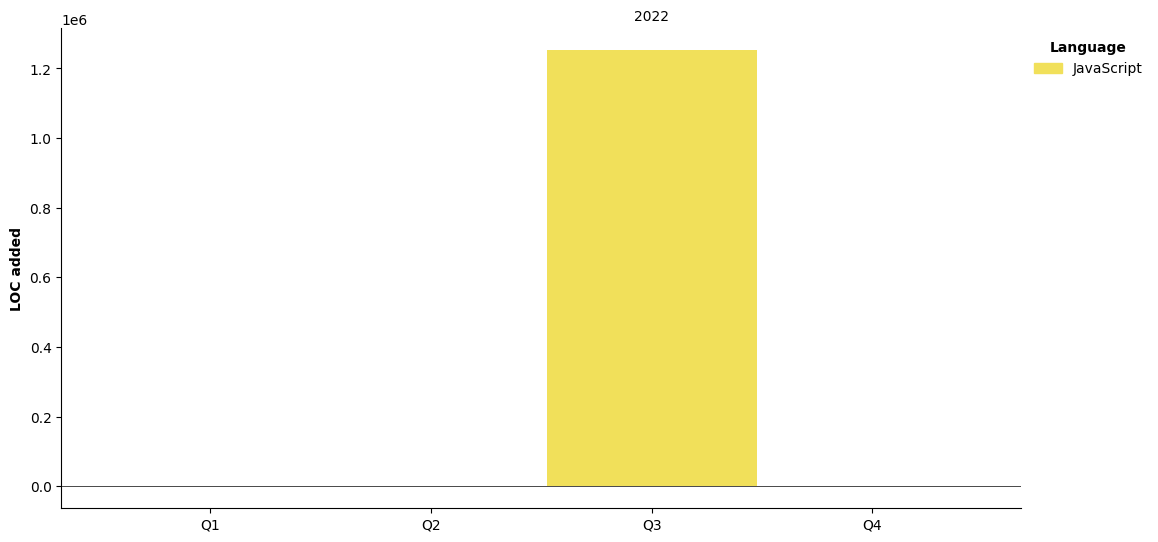
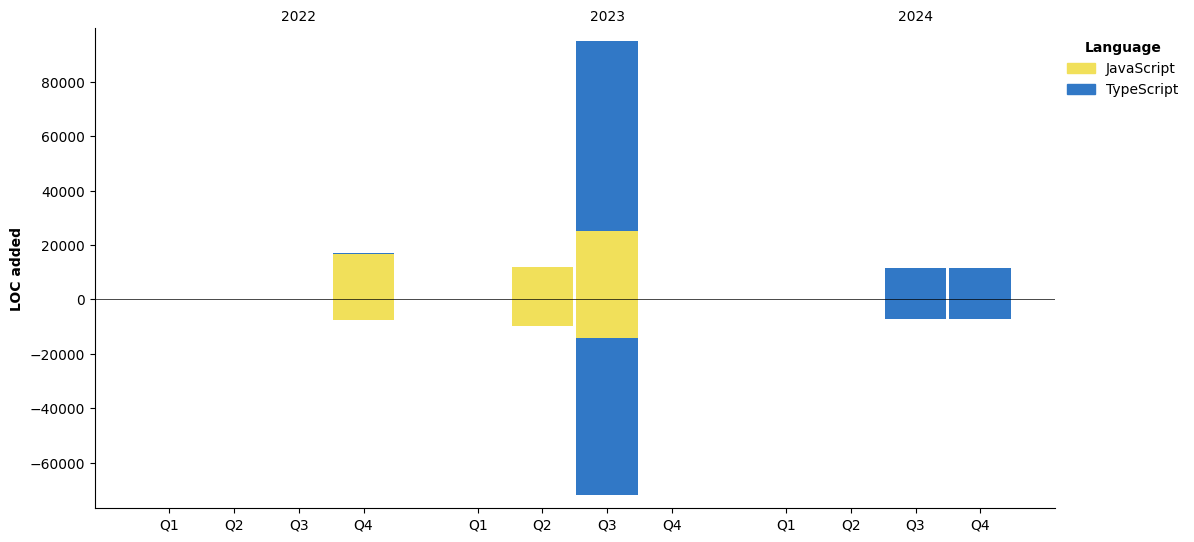
Updated with Dev Metrics

diff --git a/README.md b/README.md
@@ -24,44 +24,77 @@
 ---
 
 <!--START_SECTION:waka-->
-![Code Time](http://img.shields.io/badge/Code%20Time-69%20hrs%2029%20mins-blue)
+![Code Time](http://img.shields.io/badge/Code%20Time-153%20hrs%2033%20mins-blue)
 
-![Profile Views](http://img.shields.io/badge/Profile%20Views-0-blue)
+![Profile Views](http://img.shields.io/badge/Profile%20Views-2-blue)
 
 **🐱 My GitHub Data** 
 
-> 📦 45.6 kB Used in GitHub's Storage 
+> 📦 1.8 kB Used in GitHub's Storage 
  > 
-> 🏆 14 Contributions in the Year 2023
+> 🏆 3 Contributions in the Year 2024
  > 
 > 🚫 Not Opted to Hire
  > 
-> 📜 3 Public Repositories 
+> 📜 2 Public Repositories 
  > 
-> 🔑 0 Private Repositories 
+> 🔑 5 Private Repositories 
  > 
-**I'm a Night 🦉** 
+**I'm an Early 🐤** 
 
 ```text
-🌞 Morning                3 commits           ███░░░░░░░░░░░░░░░░░░░░░░   13.64 % 
-🌆 Daytime                7 commits           ████████░░░░░░░░░░░░░░░░░   31.82 % 
-🌃 Evening                3 commits           ███░░░░░░░░░░░░░░░░░░░░░░   13.64 % 
-🌙 Night                  9 commits           ██████████░░░░░░░░░░░░░░░   40.91 % 
+🌞 Morning                53 commits          █████████░░░░░░░░░░░░░░░░   36.81 % 
+🌆 Daytime                63 commits          ███████████░░░░░░░░░░░░░░   43.75 % 
+🌃 Evening                9 commits           ██░░░░░░░░░░░░░░░░░░░░░░░   06.25 % 
+🌙 Night                  19 commits          ███░░░░░░░░░░░░░░░░░░░░░░   13.19 % 
 ```
+📅 **I'm Most Productive on Thursday** 
+
+```text
+Monday                   34 commits          ██████░░░░░░░░░░░░░░░░░░░   23.61 % 
+Tuesday                  21 commits          ████░░░░░░░░░░░░░░░░░░░░░   14.58 % 
+Wednesday                38 commits          ███████░░░░░░░░░░░░░░░░░░   26.39 % 
+Thursday                 44 commits          ████████░░░░░░░░░░░░░░░░░   30.56 % 
+Friday                   7 commits           █░░░░░░░░░░░░░░░░░░░░░░░░   04.86 % 
+Saturday                 0 commits           ░░░░░░░░░░░░░░░░░░░░░░░░░   00.00 % 
+Sunday                   0 commits           ░░░░░░░░░░░░░░░░░░░░░░░░░   00.00 % 
+```
+
+
+📊 **This Week I Spent My Time On** 
+
+```text
+🕑 Time Zone: Asia/Ho_Chi_Minh
 
 💬 Programming Languages: 
-```text
-TypeScript               20 hrs 15 mins      ████████████████████░░░░░   80.75 % 
-JavaScript               4 hrs 20 mins       ████░░░░░░░░░░░░░░░░░░░░░   17.30 % 
-JSON                     20 mins             ░░░░░░░░░░░░░░░░░░░░░░░░░   01.34 % 
-Other                    7 mins              ░░░░░░░░░░░░░░░░░░░░░░░░░   00.50 % 
-Bash                     1 min               ░░░░░░░░░░░░░░░░░░░░░░░░░   00.12 % 
+JSON                     17 mins             ███████████████░░░░░░░░░░   58.22 % 
+Other                    9 mins              ████████░░░░░░░░░░░░░░░░░   30.62 % 
+TypeScript               3 mins              ███░░░░░░░░░░░░░░░░░░░░░░   11.16 % 
+
+🔥 Editors: 
+VS Code                  29 mins             █████████████████████████   100.00 % 
+
+🐱💻 Projects: 
+code-base                24 mins             █████████████████████░░░░   82.25 % 
+accont-shop-api          5 mins              ████░░░░░░░░░░░░░░░░░░░░░   17.75 % 
+
+💻 Operating System: 
+Mac                      29 mins             █████████████████████████   100.00 % 
 ```
+
+**I Mostly Code in TypeScript** 
+
+```text
+TypeScript               5 repos             ██████████████████░░░░░░░   71.43 % 
+JavaScript               2 repos             ███████░░░░░░░░░░░░░░░░░░   28.57 % 
+```
+
+
 
 **Timeline**
 
 ![Lines of Code chart](https://raw.githubusercontent.com/HPAnonymous/HPAnonymous/main/assets/bar_graph.png)
 
 
- Last Updated on 29/10/2023 11:34:55 UTC
+ Last Updated on 02/10/2024 10:10:17 UTC
 <!--END_SECTION:waka-->
